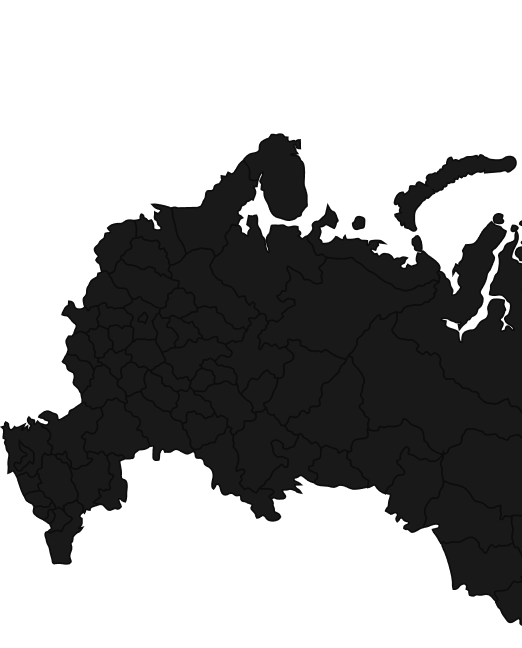
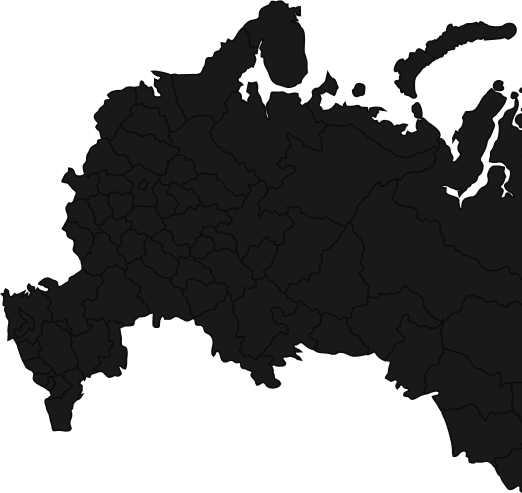
fix: changed mobile image

diff --git a/components/home/Contacts/Contacts.tsx b/components/home/Contacts/Contacts.tsx
@@ -18,16 +18,16 @@ export const Contacts = () => {
     }
   };
   return (
-    <section className="container text-white bg-neutral-black-elbrus relative md:md:min-h-194">
+    <section className="container text-white bg-neutral-black-elbrus relative md:min-h-194">
       <div className="text-center w-full">
         <h3 className="text-[24px] md:text-[32px]  lg:text-[40px]  leading-[150%] mb-12 md:mb-24 text-center font-semibold gradient-text">
           {t("contacts.title")}
         </h3>
       </div>
 
-      <div className="flex items-center md:justify-start lg:mb-50 lg:w-screen">
-        <div className="flex flex-col max-w-87 w-[22%]">
-          <p className="text-neutral-bright-beginning font-medium text-[16px] lg:text-[18px]  leading-5 lg:leading-6 text-center md:text-left mb-8">
+      <div className="flex items-center md:justify-start lg:mb-50 md:w-screen">
+        <div className="flex flex-col mb-26 md:max-w-87 lg:w-[22%] mf:mt-0">
+          <p className="text-neutral-bright-beginning font-medium lg:text-[18px]  leading-5 lg:leading-6 md:text-center md:text-left mb-8">
             {t("contacts.address")}
           </p>
           <a
@@ -62,7 +62,14 @@ export const Contacts = () => {
               alt={t("contacts.map_alt")}
               width={1412}
               height={776}
-              className="w-full h-auto mx-auto max-w-353"
+              className="hidden w-full max-w-353 lg:block"
+            />
+            <Image
+              src="/images/map.png"
+              alt={t("contacts.map_alt")}
+              width={1179}
+              height={648}
+              className="hidden w-full max-w-294.75 sm:block lg:hidden sm:-translate-x-[5%]"
             />
             <div className="absolute w-3 h-3 rounded-full bg-brand-400 bottom-[22%] left-[5.5%] shadow-[0_0_0_4px_rgba(38,199,255,0.3)] animate-pulse"></div>
           </div>